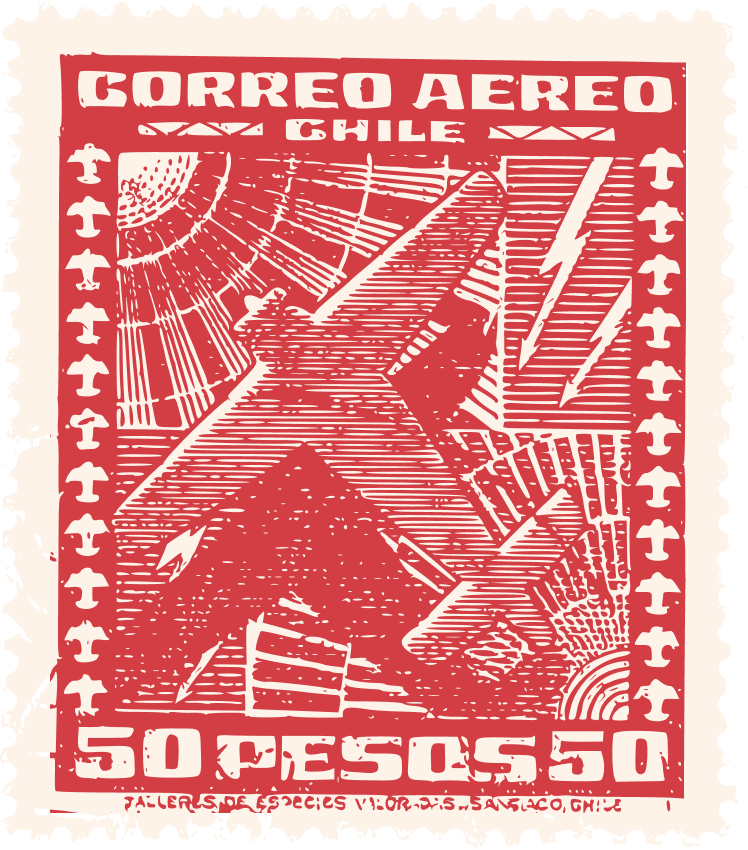
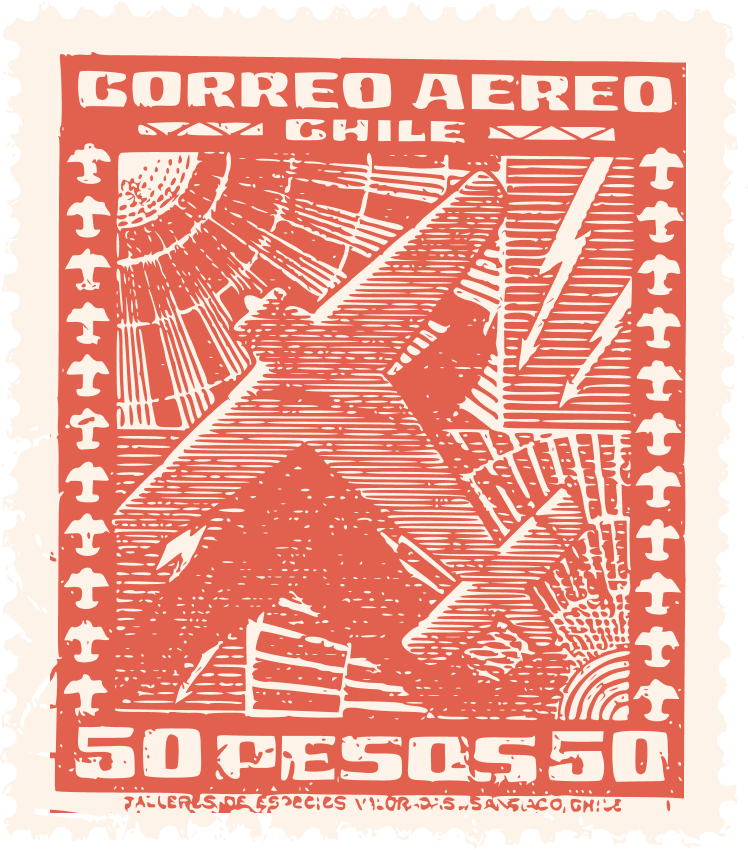
change background, update cv

diff --git a/src/components/postcard.module.css b/src/components/postcard.module.css
@@ -1,68 +1,6 @@
 /* CSS Custom Properties Definitions */
 @import url("https://fonts.googleapis.com/css2?family=Newsreader:wght@400&display=swap");
 
-:root {
-  --maxWidth-none: "none";
-  --maxWidth-xs: 20rem;
-  --maxWidth-sm: 24rem;
-  --maxWidth-md: 28rem;
-  --maxWidth-lg: 32rem;
-  --maxWidth-xl: 36rem;
-  --maxWidth-2xl: 42rem;
-  --maxWidth-3xl: 48rem;
-  --maxWidth-4xl: 56rem;
-  --maxWidth-full: "100%";
-  --maxWidth-wrapper: var(--maxWidth-2xl);
-  --spacing-px: "1px";
-  --spacing-0: 0;
-  --spacing-1: 0.25rem;
-  --spacing-2: 0.5rem;
-  --spacing-3: 0.75rem;
-  --spacing-4: 1rem;
-  --spacing-5: 1.25rem;
-  --spacing-6: 1.5rem;
-  --spacing-8: 2rem;
-  --spacing-10: 2.5rem;
-  --spacing-12: 3rem;
-  --spacing-16: 4rem;
-  --spacing-20: 5rem;
-  --spacing-24: 6rem;
-  --spacing-32: 8rem;
-  --fontFamily-sans: Montserrat, system-ui, -apple-system, BlinkMacSystemFont,
-    "Segoe UI", Roboto, "Helvetica Neue", Arial, "Noto Sans", sans-serif,
-    "Apple Color Emoji", "Segoe UI Emoji", "Segoe UI Symbol", "Noto Color Emoji";
-  --fontFamily-serif: "Merriweather", "Georgia", Cambria, "Times New Roman",
-    Times, serif;
-  --font-body: var(--fontFamily-serif);
-  --font-heading: var(--fontFamily-sans);
-  --fontWeight-normal: 400;
-  --fontWeight-medium: 500;
-  --fontWeight-semibold: 600;
-  --fontWeight-bold: 700;
-  --fontWeight-extrabold: 800;
-  --fontWeight-black: 900;
-  --fontSize-root: 16px;
-  --lineHeight-none: 1;
-  --lineHeight-tight: 1.1;
-  --lineHeight-normal: 1.5;
-  --lineHeight-relaxed: 1.625;
-  /* 1.200 Minor Third Type Scale */
-  --fontSize-0: 0.833rem;
-  --fontSize-1: 1rem;
-  --fontSize-2: 1.2rem;
-  --fontSize-3: 1.44rem;
-  --fontSize-4: 1.728rem;
-  --fontSize-5: 2.074rem;
-  --fontSize-6: 2.488rem;
-  --fontSize-7: 2.986rem;
-  --color-primary: #d23e44;
-  --color-text: #2e353f;
-  --color-text-light: #4f5969;
-  --color-heading: #1a202c;
-  --color-heading-black: black;
-  --color-accent: #f79599;
-}
-
 /* HTML elements */
 
 .cardBox {

diff --git a/src/pages/index.js b/src/pages/index.js
@@ -258,7 +258,8 @@ const BlogIndex = ({ data, location }) => {
               rel="noreferrer"
               target="_blank"
             >
-              college access workshops
+              college access and CS education workshops (funded via Google
+              igniteCS)
             </a>{" "}
             in San Jose and [2016] student-taught ninth graders at Breakthrough
             Silicon Valley.
@@ -355,7 +356,7 @@ const BlogIndex = ({ data, location }) => {
           <li>
             I could talk your head off about the following podcasts: Reply All,
             Throughline, The Experiment, California Love, Floodlines, Radiolab
-            (ft. Dolly Parton's America, Mixtap), Trojan Horse Affair.{" "}
+            (ft. Dolly Parton's America, Mixtape), Trojan Horse Affair.{" "}
           </li>
           <li>I collect postcards ~ </li>
         </ul>

diff --git a/src/style.css b/src/style.css
@@ -53,10 +53,10 @@
   --fontSize-2: 1.2rem;
   --fontSize-3: 1.44rem;
   --fontSize-4: 1.728rem;
-  --fontSize-5: 2.074rem;
+  --fontSize-5: 2rem;
   --fontSize-6: 2.488rem;
   --fontSize-7: 2.986rem;
-  --color-primary: #d23e44;
+  --color-primary: #e2614e;
   --color-text: #2e353f;
   --color-text-light: #4f5969;
   --color-heading: #1a202c;
@@ -87,8 +87,10 @@ body {
   line-height: 1.4em;
   font-size: var(--fontSize-1);
   color: var(--color-text);
-  background-color: #f3e5c0;
+  background-color: #fef7ef;
   font-family: "Newsreader", serif;
+  background-image: url("./images/noise.png");
+  background-size: contain cover;
 }
 
 footer {
@@ -411,9 +413,6 @@ section {
   body {
     font-size: var(--fontSize-1);
     color: var(--color-text);
-  }
-  :root {
-    --fontSize-5: 6.074rem;
   }
 }
 
